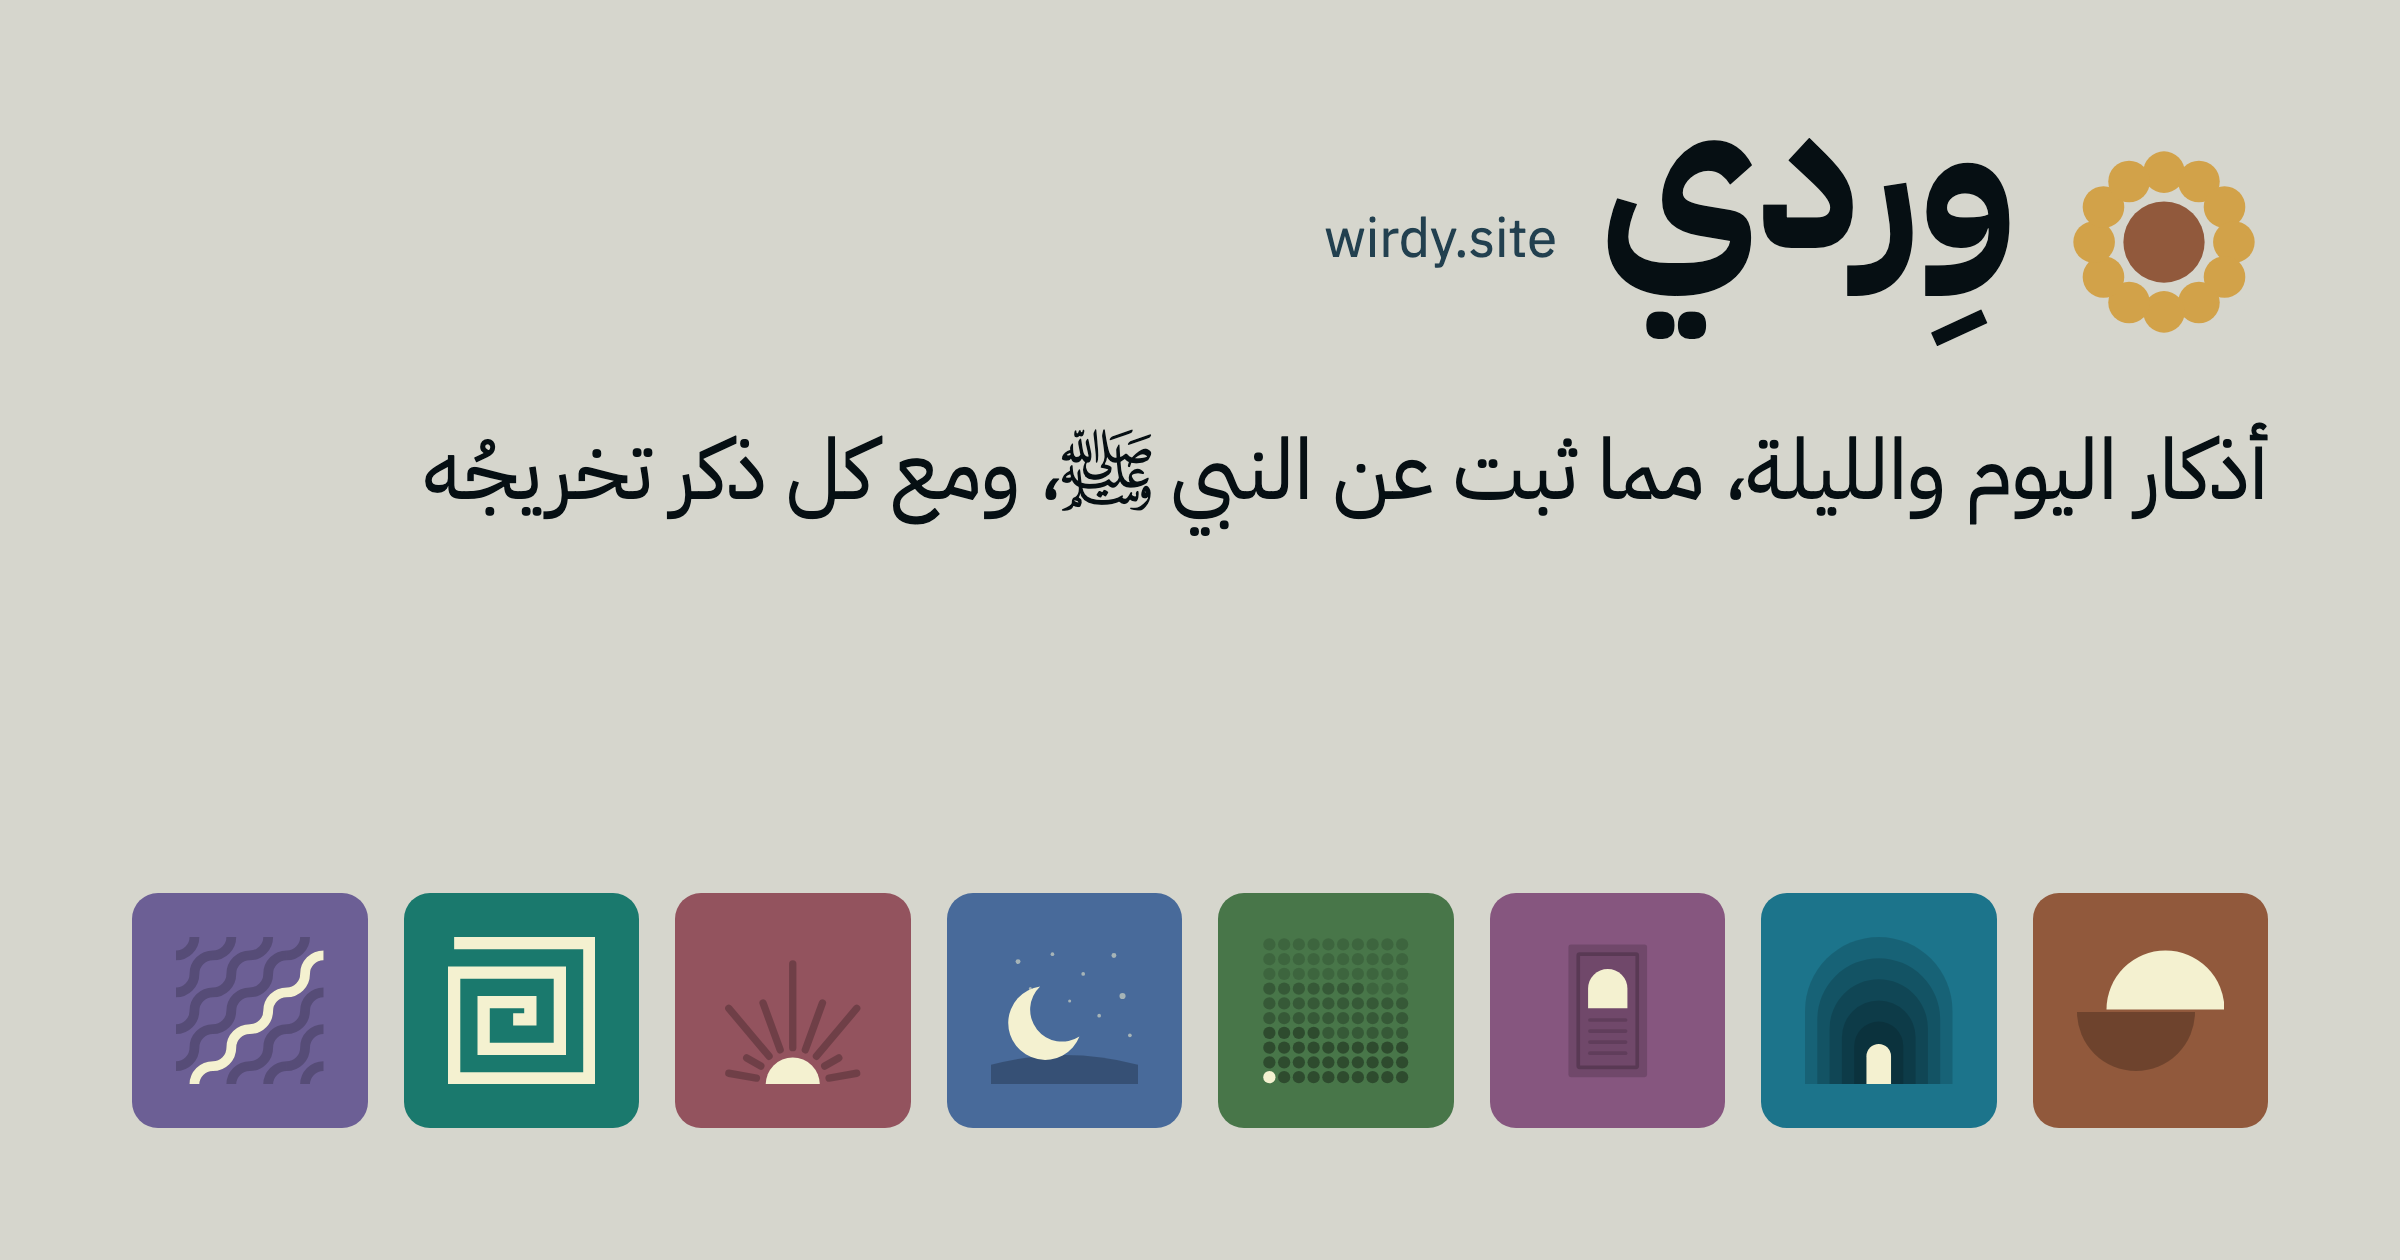
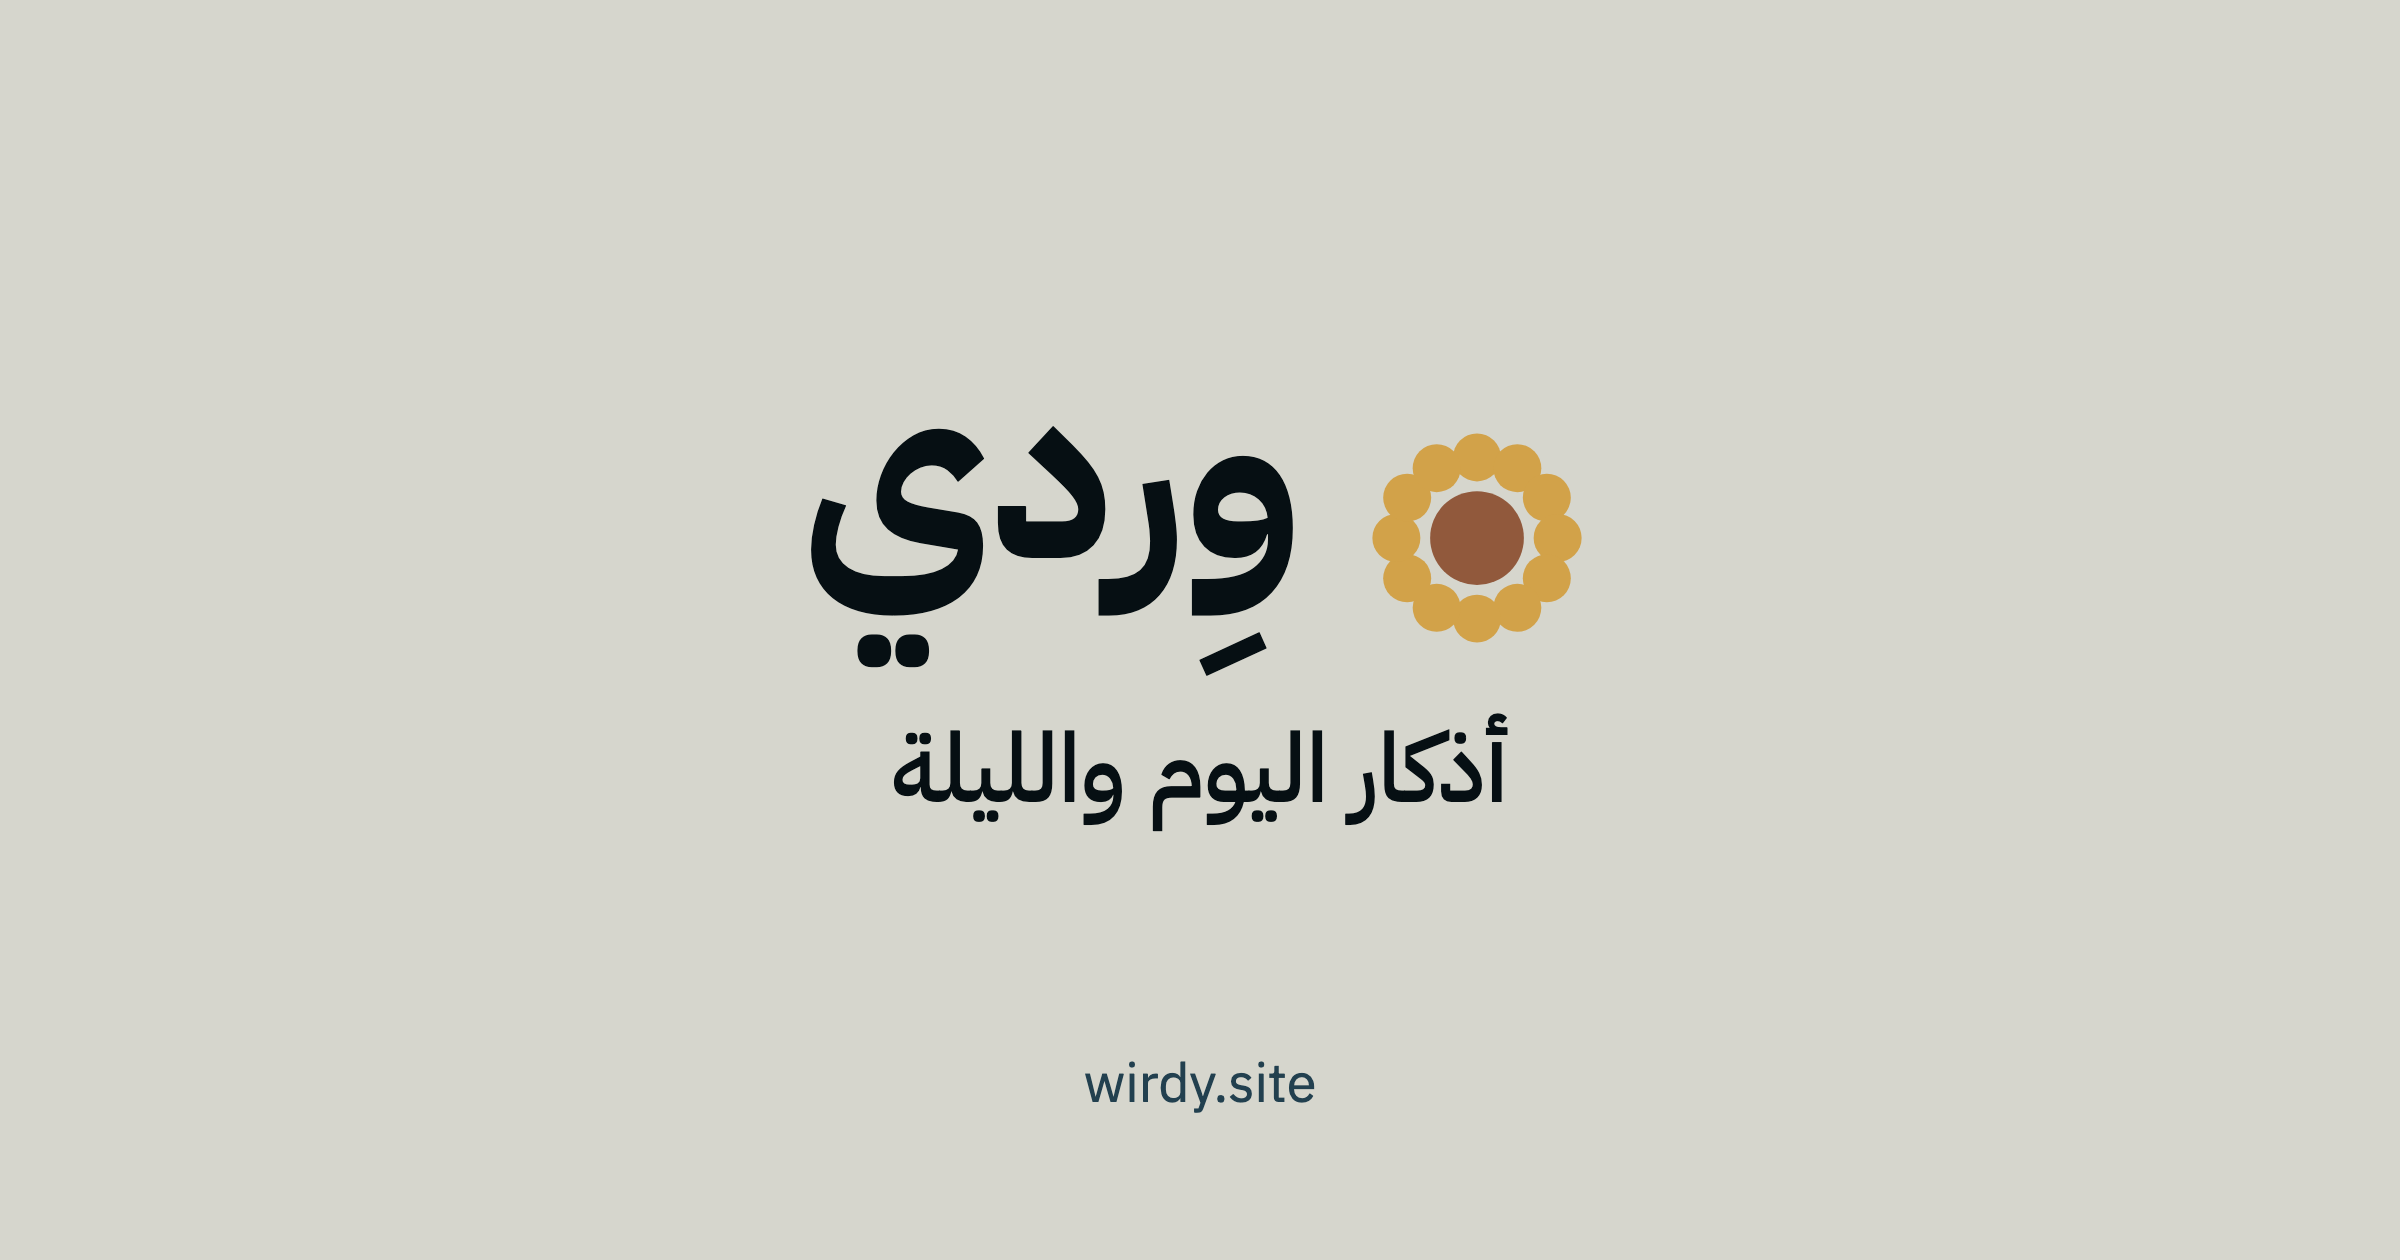
feat: simplify the home card, the description, and the README, and clear search with an eraser

diff --git a/scripts/opengraph/build.ts b/scripts/opengraph/build.ts
@@ -34,25 +34,17 @@ html,body{width:${WIDTH}px;height:${HEIGHT}px;overflow:hidden}
 body{font-family:"Plex",sans-serif;padding:${MARGIN}px}
 .domain{margin-inline-start:auto;direction:ltr;font-size:54px;translate:0 -4px}`;
 
-const tiles = OCCASIONS.map(
-  ({ id, color }) => `<div class="tile" style="background:${color}">${emblemSvg(id)}</div>`
-).join('');
-
 const home = `${head}
-body{background:${PALETTE.paper};color:${PALETTE.ink};display:flex;flex-direction:column}
-.brand{display:flex;align-items:center;gap:44px}
-.brand svg{width:208px;height:208px}
-.name{font-size:200px;font-weight:700;line-height:1.1;translate:0 -61px}
-.hero{margin-top:56px;font-size:84px;line-height:1.5;white-space:nowrap}
-.salla{font-family:"Amiri",serif}
-.tiles{margin-top:auto;display:grid;grid-template-columns:repeat(${OCCASIONS.length},1fr);gap:36px}
-.tile{aspect-ratio:1;border-radius:26px;display:grid;place-items:center;padding:44px}
-.tile svg{height:100%}
-.domain{color:${PALETTE.inkMuted}}
+body{background:${PALETTE.paper};color:${PALETTE.ink};display:flex;flex-direction:column;align-items:center;justify-content:center;text-align:center}
+.brand{display:flex;align-items:center;gap:56px}
+.brand svg{width:240px;height:240px}
+.name{font-size:240px;font-weight:700;line-height:1;translate:0 -60px}
+.tagline{margin-top:40px;font-size:96px;font-weight:500}
+.domain{position:absolute;bottom:${MARGIN}px;margin:0;color:${PALETTE.inkMuted}}
 </style></head><body>
-<div class="brand">${markSvg()}<span class="name">${SITE.name}</span><span class="domain">${SITE.domain}</span></div>
-<p class="hero">${SITE.promise.before}&nbsp;<span class="salla">ﷺ</span>${SITE.promise.after}</p>
-<div class="tiles">${tiles}</div>
+<div class="brand">${markSvg()}<span class="name">${SITE.name}</span></div>
+<p class="tagline">${SITE.tagline}</p>
+<span class="domain">${SITE.domain}</span>
 </body></html>`;
 
 const occasion = ({ id, title, color }: Section, count: number) => `${head}

diff --git a/src/lib/site.ts b/src/lib/site.ts
@@ -7,8 +7,7 @@ export const SITE = {
   tagline: 'أذكار اليوم والليلة',
   promise: { before: 'أذكار اليوم والليلة، مما ثبت عن النبي', after: '، ومع كل ذكر تخريجُه' },
   title: 'وِردي: أذكار الصباح والمساء والنوم وأدبار الصلوات',
-  description:
-    'أذكار الصباح والمساء، والأذان والمسجد، والصلاة وأدبارها، والنوم والاستيقاظ، والأحوال، مما ثبت عن النبي ﷺ، بالتشكيل، وتحت كل ذكر تخريجه من الدرر السنية. بلا إعلانات.',
+  description: 'أذكار الصباح والمساء والنوم والصلاة، مما ثبت عن النبي ﷺ، مع تخريج كل ذكر.',
   repo: 'https://github.com/raaqimorg/wirdy',
 } as const;
 

diff --git a/src/lib/icons.ts b/src/lib/icons.ts
@@ -2,8 +2,8 @@ export type IconName =
   | 'back'
   | 'check'
   | 'chevron'
-  | 'close'
   | 'copy'
+  | 'erase'
   | 'open'
   | 'out'
   | 'save'
@@ -21,7 +21,11 @@ export const ICONS: Readonly<Record<IconName, Icon>> = {
   back: { size: 12, stroke: 1.6, paths: ['M4.5 2.5L8 6l-3.5 3.5'] },
   chevron: { size: 12, stroke: 1.6, paths: ['M2.5 4.5L6 8l3.5-3.5'] },
   check: { size: 12, stroke: 1.6, paths: ['M2 6.5l2.5 2.5L10 3'] },
-  close: { size: 12, stroke: 1.6, paths: ['M3 3l6 6M9 3L3 9'] },
+  erase: {
+    size: 24,
+    stroke: 2.2,
+    paths: ['M14 4l6 6-9 9-6-6z', 'M8.5 9.5l6 6', 'M13 20h7'],
+  },
   search: {
     size: 24,
     stroke: 2.2,

diff --git a/src/styles/components/search-field.css b/src/styles/components/search-field.css
@@ -67,18 +67,6 @@
   -webkit-tap-highlight-color: transparent;
 }
 
-.search-field__clear-face {
-  --icon-size: var(--size-icon);
-
-  display: grid;
-  place-items: center;
-  width: var(--space-5);
-  height: var(--space-5);
-  color: var(--color-panel);
-  background: var(--color-ink-faint);
-  border-radius: var(--radius-round);
-}
-
 .search-field__key {
   display: none;
 }
@@ -157,10 +145,5 @@
 
   .search-field__box:has(.search-field__input:not(:placeholder-shown)) .search-field__key {
     display: none;
-  }
-
-  .search-field--bar .search-field__clear-face {
-    color: var(--color-ink-muted);
-    background: var(--color-line-soft);
   }
 }

diff --git a/src/styles/tokens.css b/src/styles/tokens.css
@@ -109,7 +109,6 @@
   --radius-tile: 0.5rem;
   --radius-menu: 1.25rem;
   --radius-pill: 99px;
-  --radius-round: 50%;
 
   --border-hairline: 1px;
   --border-ring: 2px;

diff --git a/docs/branding/identity.md b/docs/branding/identity.md
@@ -13,15 +13,15 @@ The name, its meaning, the words that present the site, and its voice. Read it b
 
 `src/lib/site.ts` holds these. `src/lib/branding.test.ts` checks each against the code.
 
-| Key           | Value                                                                                                                                                          | Where it shows                                                        |
-| ------------- | -------------------------------------------------------------------------------------------------------------------------------------------------------------- | --------------------------------------------------------------------- |
-| `name`        | وِردي                                                                                                                                                           | The bar, the end of every title, the sharing cards, the touch icon    |
-| `url`         | https://wirdy.site                                                                                                                                             | `astro.config.ts`, every absolute URL                                 |
-| `domain`      | wirdy.site                                                                                                                                                     | The sharing cards                                                     |
-| `tagline`     | أذكار اليوم والليلة                                                                                                                                            | The title of the home page                                            |
-| `promise`     | أذكار اليوم والليلة، مما ثبت عن النبي ﷺ، ومع كل ذكر تخريجُه                                                                                                     | The large line of the home page, and the home sharing card            |
-| `title`       | وِردي: أذكار الصباح والمساء والنوم وأدبار الصلوات                                                                                                               | The installed app (`name` in the manifest), and the site in JSON-LD   |
-| `description` | أذكار الصباح والمساء، والأذان والمسجد، والصلاة وأدبارها، والنوم والاستيقاظ، والأحوال، مما ثبت عن النبي ﷺ، بالتشكيل، وتحت كل ذكر تخريجه من الدرر السنية. بلا إعلانات. | The home page, the search page, the manifest, and the site in JSON-LD |
+| Key           | Value                                                                    | Where it shows                                                        |
+| ------------- | ------------------------------------------------------------------------ | --------------------------------------------------------------------- |
+| `name`        | وِردي                                                                     | The bar, the end of every title, the sharing cards, the touch icon    |
+| `url`         | https://wirdy.site                                                       | `astro.config.ts`, every absolute URL                                 |
+| `domain`      | wirdy.site                                                               | The sharing cards                                                     |
+| `tagline`     | أذكار اليوم والليلة                                                      | The title of the home page, and the home sharing card                 |
+| `promise`     | أذكار اليوم والليلة، مما ثبت عن النبي ﷺ، ومع كل ذكر تخريجُه               | The large line of the home page                                       |
+| `title`       | وِردي: أذكار الصباح والمساء والنوم وأدبار الصلوات                         | The installed app (`name` in the manifest), and the site in JSON-LD   |
+| `description` | أذكار الصباح والمساء والنوم والصلاة، مما ثبت عن النبي ﷺ، مع تخريج كل ذكر. | The home page, the search page, the manifest, and the site in JSON-LD |
 
 The `title` and `description` name the most searched occasions, in the searchers' words. The `tagline` and `promise` say what the site is in the fewest words.
 

diff --git a/docs/exceptions.md b/docs/exceptions.md
@@ -98,11 +98,11 @@ An iPhone bounce at the top uncovers the area above the page, painted in the col
 `scripts/icons/build.ts` and `scripts/opengraph/build.ts` render HTML in a local Chromium browser (`scripts/chromium.ts`) and save screenshots. `scripts/icons/build.ts` also writes `favicon.ico` by hand (a short header and a list of PNGs) and `favicon.svg` from `src/lib/mark.ts`, so the header mark and the favicon cannot drift.
 
 - The ordinary way is an image library such as `sharp`: a native dependency for two scripts that run only when the mark or a card changes.
-- The cards draw the site's mark, colors, and emblems from `src/lib/`, in the site's fonts from `@fontsource`. The home card shows every occasion. Each occasion card shows its heading, count, and emblem on its color, like its page banner. Run `bun run opengraph` after changing any of them, or adding or removing a dhikr, because the cards print the count.
+- The cards draw the site's mark, colors, and emblems from `src/lib/`, in the site's fonts from `@fontsource`. The home card shows only the mark, the name, the tagline, and the domain. Each occasion card shows its heading, count, and emblem on its color, like its page banner. Run `bun run opengraph` after changing any of them, or adding or removing a dhikr, because the cards print the count.
 
 ## Search opens over the page, from a module script
 
-Every bar ends in a search icon (`components/Bar.astro`). A tap opens search over the page (`components/SearchSheet.astro`, a `<dialog>`). On a phone it fills the screen, and its first row takes the page color, because Safari keeps that color behind the clock. On a wide screen it is a centered panel over a dimmed page. Before typing, it lists six suggestions, as `/bahth/` does above its section cards. Results update as the reader types, grouped by section, each under its emblem, name, and count. Arrow keys move between the field and the results. A tap on a result closes it and goes to the dhikr. `/`, ⌘K, or Ctrl+K opens it. On a wide screen an empty field shows «Esc», in the place the clear button takes once the reader types. The owner asked for it.
+Every bar ends in a search icon (`components/Bar.astro`). A tap opens search over the page (`components/SearchSheet.astro`, a `<dialog>`). On a phone it fills the screen, and its first row takes the page color, because Safari keeps that color behind the clock. On a wide screen it is a centered panel over a dimmed page. Before typing, it lists six suggestions, as `/bahth/` does above its section cards. Results update as the reader types, grouped by section, each under its emblem, name, and count. Arrow keys move between the field and the results. A tap on a result closes it and goes to the dhikr. `/`, ⌘K, or Ctrl+K opens it. On a wide screen an empty field shows «Esc», in the place the clear button takes once the reader types. The clear button is an eraser, not a cross, so it does not read as «إلغاء», which closes search beside it. The owner asked for it.
 
 - The ordinary way is a link to a search page. The icon still is one: without JavaScript, or with a modifier key, it opens `/bahth/`.
 - The rows come from one file, `/search/<version>.json` (`src/pages/search/[version].json.ts`). The version is a hash of the rows, so any dhikr change renames it. `_headers` caches it for a year, so no reader sees an old index. The sheet fetches it a second after the page loads, so results are ready as the reader types. Each version costs one download, then the cache serves it. If the fetch fails, opening the sheet opens `/bahth/`.

diff --git a/README.md b/README.md
@@ -1,13 +1,14 @@
-<p align="center">
-  <img alt="وِردي: أذكار اليوم والليلة، مما ثبت عن النبي ﷺ، ومع كل ذكر تخريجُه" src="public/opengraph.png">
-</p>
+<h1 align="center">Wirdy <sub dir="rtl">وِردي</sub></h1>
+
+<p align="center" dir="rtl"><b>أذكار اليوم والليلة، مما ثبت عن النبي ﷺ</b></p>
+<p align="center">The daily adhkar authentic from the Prophet ﷺ</p>
 
 <p align="center">
   <a href="https://wirdy.site"><img alt="Live site" src="https://img.shields.io/website?url=https%3A%2F%2Fwirdy.site&label=wirdy.site"></a>
-  <a href="LICENSE"><img alt="Code: MIT" src="https://img.shields.io/badge/code-MIT-blue.svg"></a>
+  <a href="LICENSE"><img alt="License: MIT" src="https://img.shields.io/badge/license-MIT-blue.svg"></a>
 </p>
 
-The daily adhkar authentic from the Prophet ﷺ, in eight occasions. Each dhikr links to its hadith on [dorar.net](https://dorar.net/hadith).
+The adhkar of the morning, the evening, sleep, prayer, and the rest of the day, each with its takhrij linked to [dorar.net](https://dorar.net/hadith). Read it at [wirdy.site](https://wirdy.site).
 
 <p align="center">
   <picture>
@@ -26,19 +27,24 @@ The daily adhkar authentic from the Prophet ﷺ, in eight occasions. Each dhikr 
 
 ## What goes in
 
-A dhikr is in Sahih al-Bukhari or Sahih Muslim, or al-Albani grades it صحيح or حسن, with its count and its time. [`docs/content.md`](docs/content.md) has the full standard.
+A dhikr is in Sahih al-Bukhari or Sahih Muslim, or al-Albani grades it صحيح or حسن. [`docs/content.md`](docs/content.md) has the full standard.
 
 Found a mistake? [Open a Dhikr correction](https://github.com/raaqimorg/wirdy/issues/new?template=dhikr-correction.yml).
 
-## Development
+## Run it locally
+
+You need [Bun](https://bun.sh).
 
 ```bash
+git clone https://github.com/raaqimorg/wirdy.git
+cd wirdy
 bun install
 bun run dev   # http://localhost:4321
-bun run ci    # before a pull request
 ```
 
-See [`CONTRIBUTING.md`](.github/CONTRIBUTING.md) and [`docs/`](docs/README.md).
+## Contributing
+
+Run `bun run ci` before you open a pull request. [`CONTRIBUTING.md`](.github/CONTRIBUTING.md) has the steps, and [`docs/`](docs/README.md) explains the rest.
 
 ## License
 
